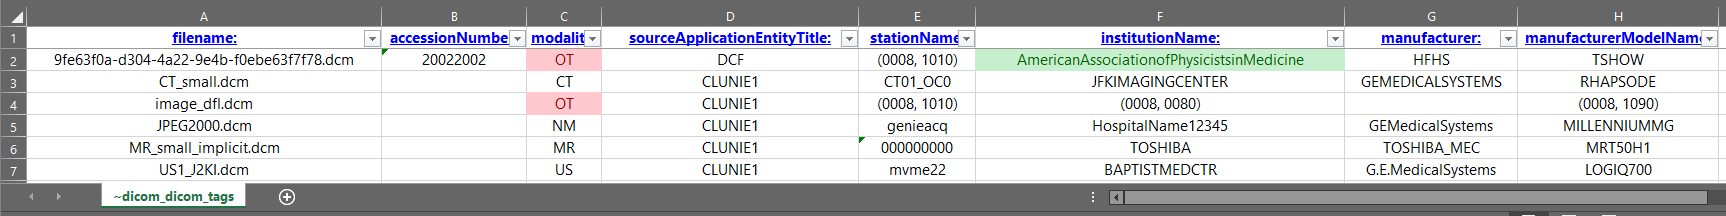
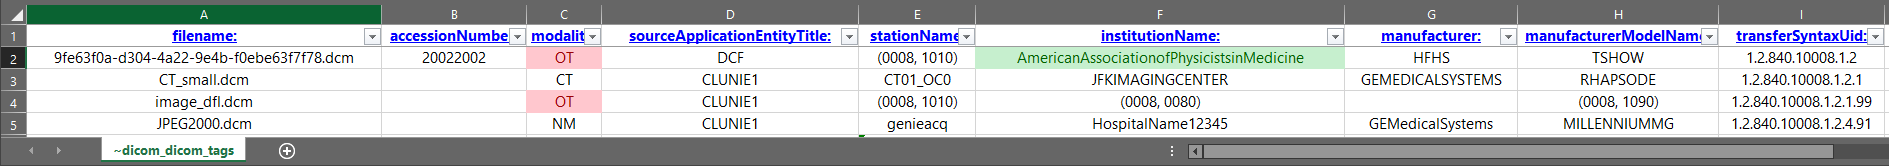
add tests

diff --git a/tests/test_parse_txt_dumps.py b/tests/test_parse_txt_dumps.py
@@ -1,0 +1,145 @@
+# -*- coding: UTF-8 -*-
+"""Unit tests to extract DICOM tags."""
+import unittest
+import os
+import pathlib
+from collections import OrderedDict
+from dicom_parser import parse_txt_dumps as pt
+
+BASE_DIR, SCRIPT_NAME = os.path.split(os.path.abspath(__file__))
+TWO_PARENT_PATH = os.sep.join(pathlib.Path(BASE_DIR).parts[:-2])
+PARENT_PATH, CURR_DIR = os.path.split(BASE_DIR)
+
+
+class TestDicomParser(unittest.TestCase):
+    """Test case class for parse_dicom_tags.py"""
+
+    def setUp(self):
+        self.valid_dicoms = pathlib.Path(PARENT_PATH, 'data',
+                                         'input', 'DICOM')
+        self.valid_dumps = pathlib.Path(PARENT_PATH, 'data',
+                                        'input', 'tag_dumps')
+        self.valid_fuji = pathlib.Path(PARENT_PATH, 'data',
+                                       'input', 'tag_dumps',
+                                       'fuji_dicom_dump.txt')
+        self.valid_dcmtk = pathlib.Path(PARENT_PATH, 'data',
+                                        'input', 'tag_dumps',
+                                        'dcmtk_dump_src.txt')
+        self.valid_ascii = pathlib.Path(PARENT_PATH, 'data',
+                                        'input', 'tag_dumps',
+                                        'random_ascii.txt')
+        self.fuji_tag = 'Grp  Elmt | Description'
+        self.dcmtk_tag = 'Dicom-Meta-Information-Header'
+        self.fuji_dict = OrderedDict(
+            [("accessionNumber", 24),
+             ("modality", 25),
+             ("sourceApplicationEntityTitle", 9),
+             ("stationName", 30),
+             ("institutionName", 27),
+             ("manufacturer", 26),
+             ("manufacturerModelName", 41),
+             ("transferSyntaxUid", 6)])
+        self.dcmtk_dict = OrderedDict(
+            [("AccessionNumber", 27),
+             ("Modality", 28),
+             ("SourceApplicationEntityTitle", 11),
+             ("StationName", 33),
+             ("InstitutionName", 30),
+             ("Manufacturer", 29),
+             ("ManufacturerModelName", 44),
+             ("TransferSyntaxUID", 8)])
+        self.invalid_path = pathlib.Path(PARENT_PATH, 'does_not_exist')
+        self.valid_ext = ['.txt', '.dcm']
+        self.out_path = pathlib.Path(BASE_DIR, '~unittest_output')
+        if not self.out_path.exists():
+            self.out_path.mkdir(parents=True, exist_ok=True)
+            print(f"\nsetUp: {self.out_path}\n")
+
+    def test_get_dump_type(self):
+        """Verify input files are of three different types"""
+        type_dict = pt.get_dump_type(self.valid_fuji)
+        self.assertTrue(type_dict['is_fuji'])
+        type_dict = pt.get_dump_type(self.valid_dcmtk)
+        self.assertTrue(type_dict['is_dcmtk'])
+        type_dict = pt.get_dump_type(self.valid_ascii)
+        self.assertTrue(type_dict['is_other'])
+        type_dict = pt.get_dump_type(self.invalid_path)
+        self.assertTrue(type_dict['is_other'])
+
+    def test_get_tag_line_number_fuji(self):
+        read_file_handle = open(self.valid_fuji, 'r')
+        lines_list = read_file_handle.readlines()
+        for tag_keyword in self.fuji_dict.keys():
+            line_num = pt.get_tag_line_number(tag_keyword, lines_list)
+            self.assertEqual(self.fuji_dict[tag_keyword], line_num)
+        read_file_handle.close()
+
+    def test_get_tag_line_number_dcmtk(self):
+        read_file_handle = open(self.valid_dcmtk, 'r')
+        lines_list = read_file_handle.readlines()
+        for tag_keyword in self.dcmtk_dict.keys():
+            line_num = pt.get_tag_line_number(tag_keyword, lines_list)
+            self.assertEqual(self.dcmtk_dict[tag_keyword], line_num)
+        read_file_handle.close()
+
+    def test_get_tag_indices_fuji(self):
+        read_file_handle = open(self.valid_fuji, 'r')
+        lines_list = read_file_handle.readlines()
+        for tag_keyword in self.fuji_dict.keys():
+            line_num = pt.get_tag_line_number(tag_keyword, lines_list)
+            indices_dict = pt.get_tag_indices(self.fuji_dict.keys(),
+                                              lines_list)
+            self.assertEqual(lines_list[line_num], indices_dict[tag_keyword])
+        read_file_handle.close()
+
+    def test_get_tag_indices_dcmtk(self):
+        read_file_handle = open(self.valid_dcmtk, 'r')
+        lines_list = read_file_handle.readlines()
+        for tag_keyword in self.dcmtk_dict.keys():
+            line_num = pt.get_tag_line_number(tag_keyword, lines_list)
+            indices_dict = pt.get_tag_indices(self.dcmtk_dict.keys(),
+                                              lines_list)
+            self.assertEqual(lines_list[line_num], indices_dict[tag_keyword])
+        read_file_handle.close()
+
+    def test_get_txt_dump_paths(self):
+        dump_path_list = pt.get_txt_dump_paths(self.valid_dumps)
+        for txt_path in dump_path_list:
+            self.assertEqual(txt_path.suffix, '.txt')
+            self.assertIsInstance(txt_path, pathlib.Path)
+            self.assertTrue(txt_path.exists())
+        self.assertGreater(len(dump_path_list), 1)
+
+    def test_parse_fuji_tag_dump(self):
+        read_file_handle = open(self.valid_fuji, 'r')
+        lines_list = read_file_handle.readlines(300)
+        tag_list = pt.parse_fuji_tag_dump(self.valid_fuji, 0)
+        self.assertGreater(len(tag_list), 1)
+        self.assertTrue(self.fuji_tag in ''.join(lines_list))
+        self.assertFalse(self.dcmtk_tag in ''.join(lines_list))
+        read_file_handle.close()
+
+    def test_parse_dcmtk_tag_dump(self):
+        read_file_handle = open(self.valid_dcmtk, 'r')
+        lines_list = read_file_handle.readlines(300)
+        tag_list = pt.parse_fuji_tag_dump(self.valid_dcmtk, 0)
+        self.assertGreater(len(tag_list), 1)
+        self.assertTrue(self.dcmtk_tag in ''.join(lines_list))
+        self.assertFalse(self.fuji_tag in ''.join(lines_list))
+        read_file_handle.close()
+
+    def test_parse_txt_tag_dumps(self):
+        tag_list = pt.parse_txt_tag_dumps(self.valid_dumps)
+        # includes headers for count of 4
+        self.assertEqual(len(tag_list), 4)
+        tag_list = pt.parse_txt_tag_dumps(self.valid_dicoms)
+        self.assertEqual(len(tag_list), 1)
+        tag_list = pt.parse_txt_tag_dumps(self.invalid_path)
+        self.assertEqual(len(tag_list), 1)
+
+    def tearDown(self):
+        pass
+
+
+if __name__ == '__main__':
+    unittest.main()

diff --git a/tests/test_dicom_tools.py b/tests/test_dicom_tools.py
@@ -4,7 +4,10 @@ import unittest
 import os
 import re
 import pathlib
-from dicom_parser.pylib import dicom_tools
+from collections import OrderedDict
+from pydicom.tag import Tag
+import dicom_parser.parse_dicom_tags as pt
+from dicom_parser.pylib import dicom_tools as dt
 
 BASE_DIR, SCRIPT_NAME = os.path.split(os.path.abspath(__file__))
 PARENT_PATH, CURR_DIR = os.path.split(BASE_DIR)
@@ -14,25 +17,73 @@ class TestDicomTools(unittest.TestCase):
     """Test case class for dicom_tools.py"""
 
     def setUp(self):
-        self.valid_dir = pathlib.Path(PARENT_PATH, 'data',
-                                      'input', 'DICOM')
+        self.valid_dicom = pathlib.Path(PARENT_PATH, 'data',
+                                        'input', 'DICOM')
+        self.valid_txt = pathlib.Path(PARENT_PATH, 'data',
+                                      'input', 'tag_dumps')
         self.valid_dcmtk = pathlib.Path(PARENT_PATH, 'data', 'input',
                                         'tag_dumps', 'dcmtk_dump_src.txt')
         self.valid_fuji = pathlib.Path(PARENT_PATH, 'data', 'input',
                                        'tag_dumps', 'fuji_dicom_dump.txt')
+        self.out_path = pathlib.Path(BASE_DIR, '~unittest_output')
+        if not self.out_path.exists():
+            self.out_path.mkdir(parents=True, exist_ok=True)
+            print(f"\nsetUp: {self.out_path}\n")
 
-    def test_build_dcmtk_tag_dict(self):
-        dcmtk_tag_dict = dicom_tools.build_dcmtk_tag_dict()
-        # match: (0008,0050)
-        for key, tag in dcmtk_tag_dict.items():
+    def test_get_header_column_widths(self):
+        stat_list = pt.parse_dicom_tag_dumps(self.valid_dicom)
+        hdr_col_width_dict = dt.get_header_column_widths(stat_list)
+        self.assertIsInstance(hdr_col_width_dict, dict)
+        for hdr in dt.HEADERS:
+            self.assertTrue(hdr in hdr_col_width_dict.keys())
+
+    def test_export_to_excel(self):
+        all_dicom_list = pt.parse_dicom_tag_dumps(self.valid_dicom)
+        status = dt.export_to_excel(self.out_path,
+                                    "~dicom_dicom_tags.xlsx",
+                                    all_dicom_list)
+
+        self.assertTrue("SUCCESS" in status)
+        output_path = pathlib.Path(BASE_DIR, '~unittest_output',
+                                   "~dicom_dicom_tags.xlsx")
+        self.assertTrue(output_path.exists())
+
+    def test_parse_txt_tag_dumps(self):
+        all_txt_list = pt.parse_dicom_tag_dumps(self.valid_txt)
+        self.assertIsInstance(all_txt_list, list)
+        self.assertGreater(len(all_txt_list), 0)
+
+    def test_build_pydicom_tag_dict(self):
+        pydicom_dict = OrderedDict(
+            [("filename", 'default.txt'),
+             ("accessionNumber", Tag(0x0008, 0x0050)),
+             ("modality", Tag(0x0008, 0x0060)),
+             ("sourceApplicationEntityTitle", Tag(0x0002, 0x0016)),
+             ("stationName", Tag(0x0008, 0x1010)),
+             ("institutionName", Tag(0x0008, 0x0080)),
+             ("manufacturer", Tag(0x0008, 0x0070)),
+             ("manufacturerModelName", Tag(0x0008, 0x1090)),
+             ("transferSyntaxUid", Tag(0x0002, 0x0010))])
+        dicom_tag_dict = dt.build_pydicom_tag_dict()
+        # match: (0x0008,0x0050)
+        for key, tag in dicom_tag_dict.items():
             if 'filename' not in key:
-                match = re.search("^(\\([0-9]{4},)([0-9]{4}\\))$", tag)
-                self.assertIsNotNone(match)
-                self.assertIsInstance(tag, str)
-                self.assertEqual(tag[match.start():match.end()], tag)
+                self.assertIsInstance(key, str)
+                self.assertIsInstance(tag, int)
+                self.assertEqual(pydicom_dict[key], tag)
 
     def test_build_fuji_tag_dict(self):
-        fuji_tag_dict = dicom_tools.build_fuji_tag_dict()
+        fuji_dict = OrderedDict(
+            [("filename", 'default.txt'),
+             ("accessionNumber", '0008 0050'),
+             ("modality", '0008 0060'),
+             ("sourceApplicationEntityTitle", '0002 0016'),
+             ("stationName", '0008 1010'),
+             ("institutionName", '0008 0080'),
+             ("manufacturer", '0008 0070'),
+             ("manufacturerModelName", '0008 1090'),
+             ("transferSyntaxUid", '0002 0010')])
+        fuji_tag_dict = dt.build_fuji_tag_dict()
         # match: 0008 0050
         for key, tag in fuji_tag_dict.items():
             if 'filename' not in key:
@@ -40,6 +91,28 @@ class TestDicomTools(unittest.TestCase):
                 self.assertIsNotNone(match)
                 self.assertIsInstance(tag, str)
                 self.assertEqual(tag[match.start():match.end()], tag)
+                self.assertEqual(fuji_dict[key], tag)
+
+    def test_build_dcmtk_tag_dict(self):
+        dcmtk_dict = OrderedDict(
+            [("filename", 'default.txt'),
+             ("accessionNumber", '(0008,0050)'),
+             ("modality", '(0008,0060)'),
+             ("sourceApplicationEntityTitle", '(0002,0016)'),
+             ("stationName", '(0008,1010)'),
+             ("institutionName", '(0008,0080)'),
+             ("manufacturer", '(0008,0070)'),
+             ("manufacturerModelName", '(0008,1090)'),
+             ("transferSyntaxUid", '(0002,0010)')])
+        dcmtk_tag_dict = dt.build_dcmtk_tag_dict()
+        # match: (0008,0050)
+        for key, tag in dcmtk_tag_dict.items():
+            if 'filename' not in key:
+                match = re.search("^(\\([0-9]{4},)([0-9]{4}\\))$", tag)
+                self.assertIsNotNone(match)
+                self.assertIsInstance(tag, str)
+                self.assertEqual(tag[match.start():match.end()], tag)
+                self.assertEqual(dcmtk_dict[key], tag)
 
     def tearDown(self):
         pass
